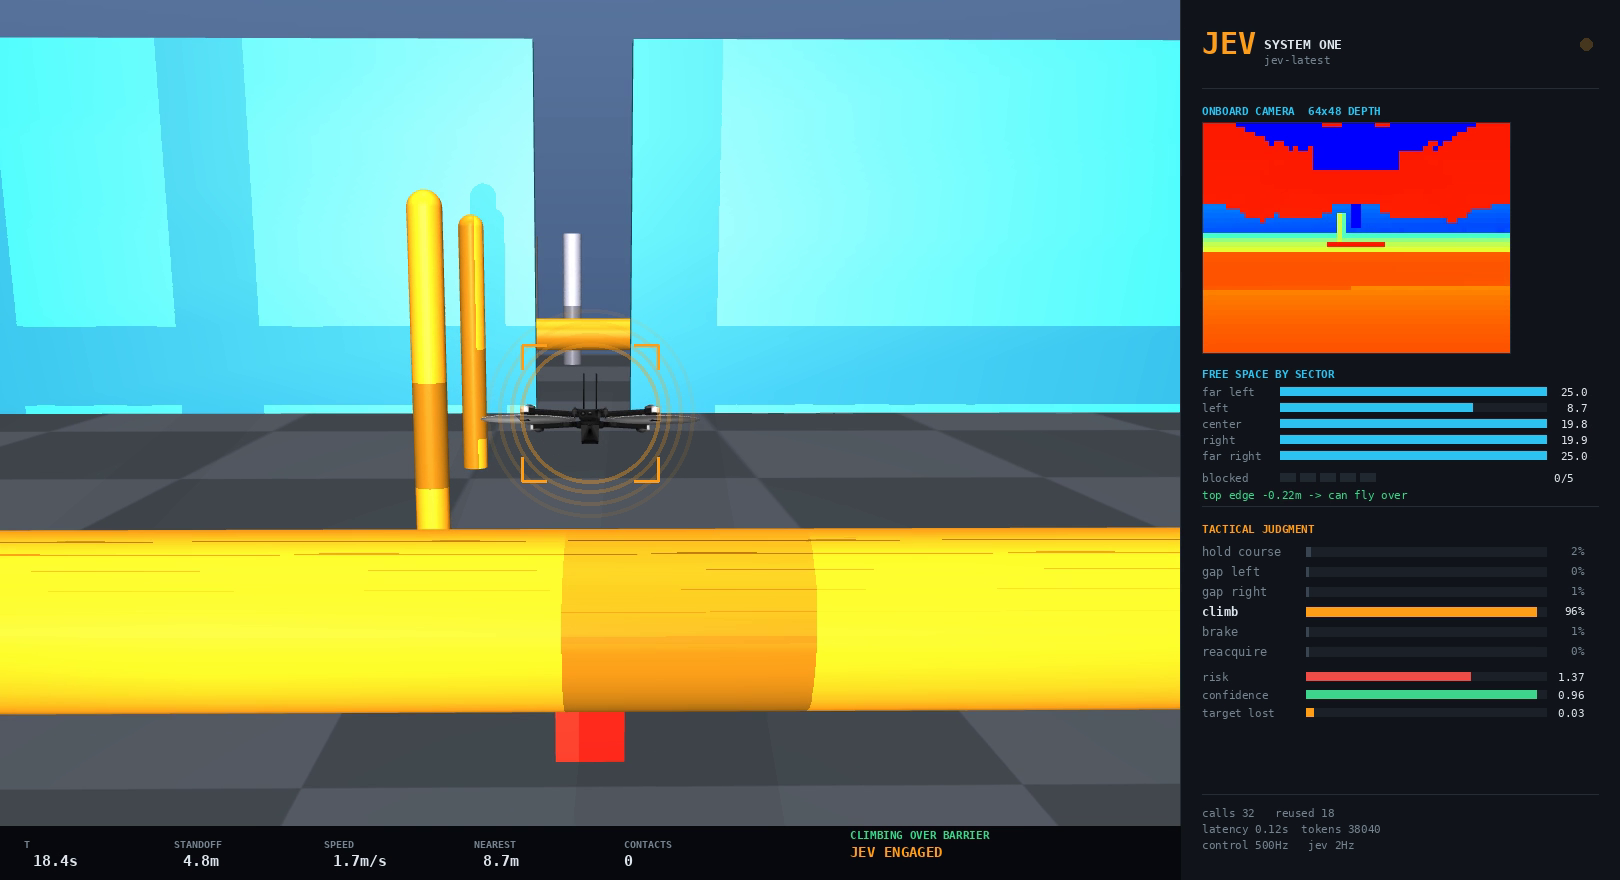
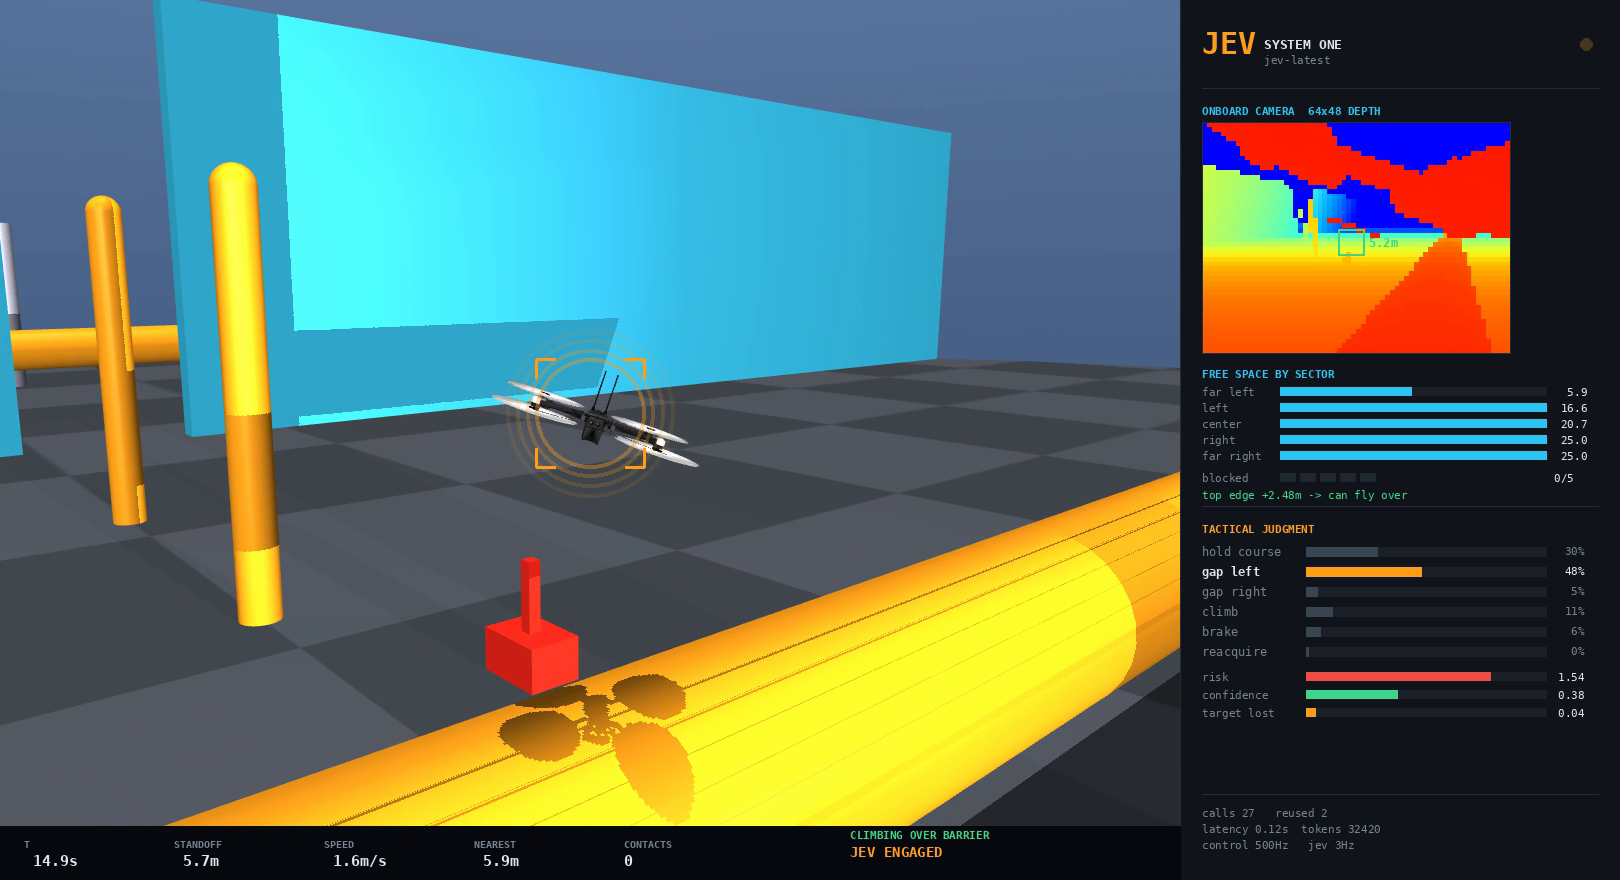
Faster flight, path-ahead reflex: drone completes all five stations
The reflex braked on the nearest obstacle anywhere in the forward cone, so
walls beside the aircraft triggered it. Any gap narrower than twice the reflex
radius was impossible to enter: the sliding gate was not hard, it was forbidden.
Brake on what is in the path instead.

With that fixed and the airframe flown harder (3.6 m/s), the full course goes in
~41s: climb both beams, time the turnstiles, thread the sliding gap, cross the
cluster. The baseline still stops dead at station 2.

diff --git a/run.py b/run.py
@@ -23,8 +23,8 @@ REFLEX_M = 2.2           # code-owned: below this, Jev's opinion is irrelevant
 TRACE = bool(os.environ.get("TRACE"))
 
 
-ROVER_SPEED = 0.80
-SEARCH_SPEED = 1.4       # while searching, still out-pace the rover
+ROVER_SPEED = 1.15
+SEARCH_SPEED = 2.4       # while searching, still out-pace the rover
 
 
 def rover_pose(t):
@@ -49,7 +49,7 @@ def drive_course(m, d, t):
     # the gap tracks the rover, so the leader always fits; the drone trails by
     # several seconds and therefore meets the gap somewhere else entirely
     c = 2.0 * np.sin(0.26 * t)
-    for name, off in (("gateL", 31.2), ("gateR", -31.2)):
+    for name, off in (("gateL", 31.6), ("gateR", -31.6)):
         mid = m.body(name).mocapid[0]
         p = d.mocap_pos[mid].copy()
         p[1] = c + off
@@ -102,7 +102,7 @@ class Guidance:
         # re-derived each camera frame, so nothing can accumulate into a spin.
         yaw_rel = float(np.clip(self.last_bearing, -0.6, 0.6)) if tgt["visible"] else 0.0
         absolute_yaw = None
-        fwd = float(np.clip(1.0 * (rng - STANDOFF) + 0.95, 0.0, 2.2))
+        fwd = float(np.clip(1.15 * (rng - STANDOFF) + 1.35, 0.0, 3.6))
 
         self.climb_hold = max(0, self.climb_hold - 1)
         alt_sp = CLIMB_ALT if self.climb_hold else CRUISE_ALT
@@ -173,7 +173,8 @@ class Guidance:
             fwd, slide = SEARCH_SPEED, 0.0
 
         # --- hard reflex: code overrides everything, Jev included ------------------
-        near, nb = scene["nearest_obstacle_m"], np.deg2rad(scene["nearest_bearing_deg"])
+        # Reflex on what is in the path, not on what is merely alongside.
+        near, nb = scene["path_ahead_m"], np.deg2rad(scene["nearest_bearing_deg"])
         reflex = near < REFLEX_M
         if reflex:
             side = 1.0 if left_room > right_room else -1.0

diff --git a/flight.py b/flight.py
@@ -23,8 +23,8 @@ class Pilot:
         self.kv = np.array([2.6, 2.6, 4.0])          # velocity -> accel
         self.kR = self.inertia * 190.0               # attitude stiffness
         self.kw = self.inertia * 26.0                # attitude damping
-        self.max_tilt = np.deg2rad(25.0)
-        self.max_acc = 5.0            # slew the velocity command; step changes tumble it
+        self.max_tilt = np.deg2rad(28.0)
+        self.max_acc = 7.5            # slew the velocity command; step changes tumble it
         self.v_cmd = np.zeros(3)
         # thrust-mixing matrix: [Fz, Mx, My, Mz] = MIX @ f
         self.mix_inv = np.linalg.inv(np.array([
@@ -189,8 +189,12 @@ class Eye:
                       "pixels": 0, "unseen_for_s": gap}
 
         blocked = sum(1 for v in sectors.values() if v < 3.0)
+        # What lies in the PATH, as opposed to merely beside us. Braking for walls
+        # you are flying between makes narrow gaps impossible to thread.
+        path_ahead = round(min(sectors["left"], sectors["center"], sectors["right"]), 2)
         return {"sector_range_m": sectors,
                 "sectors_blocked_of_5": blocked,
+                "path_ahead_m": path_ahead,
                 "obstruction_top_above_drone_m": top_dz,
                 "obstruction_taller_than_camera_can_see": runs_off_top,
                 "nearest_obstacle_m": round(nearest, 2),

diff --git a/tactics.py b/tactics.py
@@ -17,7 +17,7 @@ MODEL = "jev-latest"
 THRESHOLDS = {
     "stale_after_s": 1.5,     # ignore a judgment older than this; the world moved on
     "risk_slow_down": 1.45,   # score above which we bleed speed regardless of maneuver
-    "call_hz": 2.5,           # upper bound on how often we ask
+    "call_hz": 3.0,           # upper bound on how often we ask
     "call_budget": 160,      # hard cap per episode, so a bug cannot run up a bill
     "consult_within_m": 4.0,  # only ask when something is actually in the way...
     "consult_lost_s": 1.0,    # ...or the target has been missing this long
@@ -34,7 +34,7 @@ AIRCRAFT = {
     "cruise_altitude_m": 1.6,
     "can_climb_to_m": 3.0,
     "climb_takes_about_s": 1.5,
-    "top_speed_mps": 2.6,
+    "top_speed_mps": 3.6,
     "note": "All distances are from a forward camera. 25 m means nothing was detected.",
 }
 

diff --git a/README.md b/README.md
@@ -53,7 +53,7 @@ Five stations, each breaking a different assumption:
 1. **Slalom** - ordinary steering around pillars
 2. **Low beam** - spans the whole corridor. No lateral gap exists at any width, so "go around" is not available. It must be flown *over*.
 3. **Turnstiles** - arms sweeping across the lane. Moving, must be timed.
-4. **Sliding gate** - a 2.4 m gap that slides sideways. Too tall to climb, so it must be threaded.
+4. **Sliding gate** - a 3.2 m gap that slides sideways. Too tall to climb, so it must be threaded.
 5. **Cluster** - dense pillars
 
 ![chasing through the course](docs/chase.png)
@@ -67,13 +67,27 @@ an obstacle is not something it can express.
 
 | | baseline (no Jev) | Jev engaged |
 |---|---|---|
-| furthest point reached | 16.9 / 16.7 / 16.9 m | **35.8 m** |
-| target kept in view | ~28% | **60.6%** |
-| collisions | 1 / 1 / 1 | **0** |
-| time pinned in reflex | 42-77% | **13%** |
+| furthest point reached | 17.6 / 17.5 / 17.4 m | **55.2 m (all five stations)** |
+| target kept in view | ~19% | **57%** |
+| time pinned in reflex | 60-65% | **9.5%** |
+| collisions | 0 / 0 / 0 | 1 |
 
-Jev clears station 2 by choosing `climb` at p=0.93-0.96 and threads the gate by
-choosing a gap.
+The baseline stops dead at station 2 every time. With Jev the drone clears the
+whole course in about 41 s at up to 3.6 m/s, with the rover in view at every
+station:
+
+```
+x=19  beam0       t=14.9  z=3.0   climbed over
+x=26  turnstiles  t=20.3  z=1.6   timed the sweeping arms
+x=38  GATE        t=31.1  z=1.6   threaded the sliding 3.2 m gap
+x=44  beam1       t=37.1  z=2.8   climbed over
+x=50  cluster     t=41.1  z=1.6   through the pillars
+```
+
+![threading the sliding gate](docs/gate.png)
+
+Judgments used across the run: 14 gap_left, 12 gap_right, 10 hold_course,
+7 climb, 6 reacquire, 1 brake. 121 calls, 0.113 s median latency.
 
 **Honest caveats.** The Jev column is a single 65 s run, not a seed-matched
 average. On an earlier, simpler arena a matched 3-seed comparison showed **no
@@ -82,6 +96,22 @@ cost target visibility. Run-to-run variance is large. The claim this repo
 supports is narrow and specific: *the baseline is structurally incapable of the
 maneuver, and Jev supplies it.* It is not "the model makes the drone better at
 everything".
+
+### What is and is not the model
+
+Worth being precise, because it is easy to overclaim:
+
+| layer | who does it | rate |
+|---|---|---|
+| **Awareness** - what is out there, how far, where is the target | numpy on depth + segmentation. **Zero Jev.** | 15 Hz |
+| Flight control - attitude, thrust, mixing | geometric controller. **Zero Jev.** | 500 Hz |
+| Safety reflex - do not hit that | code, and it **overrides** Jev | 50 Hz |
+| **Tactical choice** - over it? around it? which side? is it lost? | **100% Jev** | ~3 Hz |
+
+Code decides *what is there*; Jev decides *what to do about it*. Jev cannot see
+- it takes JSON, not pixels. The defensible claim is "a judgment model in a
+live control loop at 3 Hz with 0.11 s median latency", not "the model does the
+perception".
 
 ### The judgments themselves are good
 
@@ -173,6 +203,11 @@ cost real time:
 - Anything you have already climbed over is not a threat. Obstacle pixels have
   to be filtered by height relative to the aircraft, or the reflex shoves you
   back off the wall you just cleared.
+- **A reflex must brake for what is in your path, not what is beside you.** Using
+  the nearest obstacle across the whole forward cone meant walls 1.2 m to either
+  side triggered a permanent brake, so any gap narrower than 2x the reflex radius
+  was physically impossible to enter. The gate was not hard, it was forbidden.
+  Splitting out `path_ahead_m` (the middle sectors only) fixed it.
 - A wide lens helps you *see* the target but ruins threat assessment, because
   things 60 deg off the nose were never in the way. Separate the tracking FOV
   from the threat cone.
